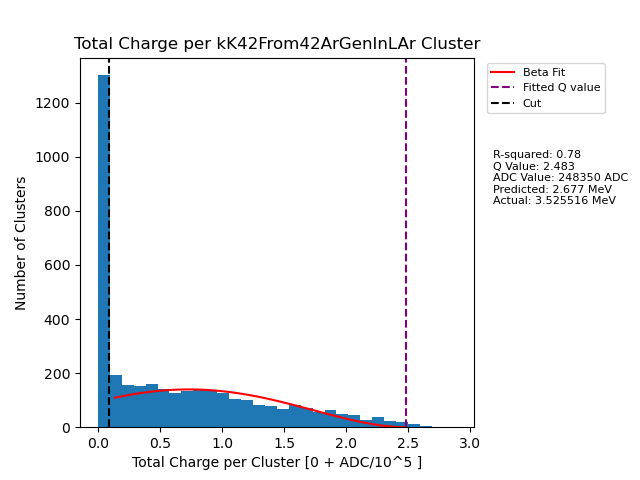
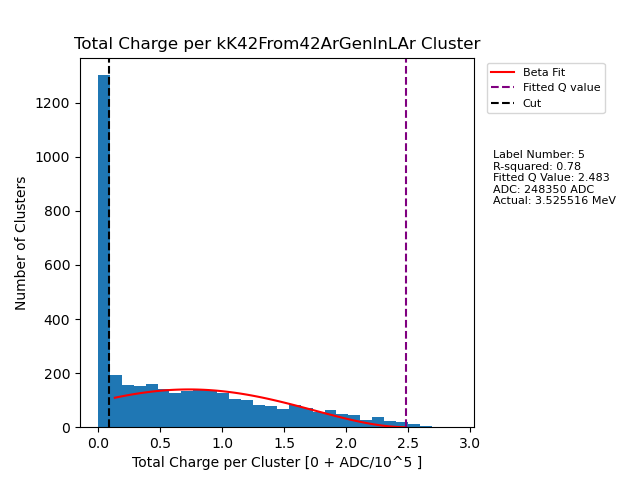
cleaned upp comments

Changed region(s): [[0.75, 0.3125, 0.9688, 0.4062]]

diff --git a/app/cluster_analyse.py b/app/cluster_analyse.py
@@ -134,7 +134,6 @@ labels = {
     21: "kRn222ChainGenInPDS",
     22: "kNeutronGenInRock"
     }
-exlude_expo = []#[-1,0,1,22,2] #exlude these bacgkrounds when fitting the exponential function to the histograms
 
 '''
 new dic that matches background with its respective maximum decay energy 
@@ -175,6 +174,9 @@ if uniform:
     exlude = [19,11,13,16,17,18,10,15,14] 
 else:
     exlude = [19,13,14,2] #backgrounds to exlude #exluding Ar39 because Fermi fits badly with outlier
+
+exlude_expo = []#[-1,0,1,22,2] #exlude these bacgkrounds when fitting the exponential function to the histograms
+
      
 charge_lists = {key: [] for key in labels} #lists of sum of charges in each cluster, for histograms
 charge_lists_cut = {key: [] for key in labels} #same as above but with a charge cut applied for the purpose of fitting the background
@@ -227,11 +229,10 @@ alpha_adc = []
 alpha_adc_error = []
 alpha_MeV = []
 
-parameter_list = [] #list of best fit parameters to plot to see relation between parameter and endpoint
 
 for label_num, charge_list in charge_lists.items():
     max_charge_num = 0   
-    #histogram
+    #histogram of each backgrouund
     fig1 = plt.figure()
     hist, bins, _ = plt.hist(charge_list, bins=60)  
     plt.title(f'Total Charge per {labels[label_num]} Cluster [ADC]')  
@@ -280,7 +281,7 @@ for label_num, charge_list in charge_lists.items():
   '''
   
     #fit sigmoid to hist data
-    # 
+ 
     if label_num not in exlude_expo:
         '''
         cut = np.std(charge_list)
@@ -312,7 +313,7 @@ for label_num, charge_list in charge_lists.items():
         '''
         #Fit Fermi Function
         alpha = .007297
-        m = 1 #KeV
+        m = 1 #KeV NOT SURE ABOUT THIS VALUE
         c = 1   #m/s
         e = np.sqrt(4*np.pi*alpha) #C
         h = 1 # Joules-s / rad
@@ -320,7 +321,7 @@ for label_num, charge_list in charge_lists.items():
         def S(Z):
             return np.sqrt(1-(alpha**2)*Z**2)
             
-        def rho(label):
+        def rho(): #change to variable if keeping constant
             return 3.4093e-15
         
         def E(T): #total energy
@@ -331,39 +332,35 @@ for label_num, charge_list in charge_lists.items():
         
         def eta(Z,T): #n
             return (Z*E(T)*np.power(e,2))/P(T)
-        def F(Z,T):
-            return 2*(1+S(Z))/((gamma(1+2*S(Z)))**2)*np.power(2*P(T)*rho(Z),2*S(Z)-2)*np.power(np.e,np.pi*eta(Z,T))*np.abs(gamma(S(Z)+eta(Z,T)*1j))**2 
         
-       # def F(Z,T): #fermi function
-        #    numerator = (2*np.pi*eta(Z,T))
-         #   denominator = (1-np.exp(-2*np.pi*eta(Z,T)))  
-          #  return numerator/denominator   
-            
+        def F(Z,T):
+            return 2*(1+S(Z))/((gamma(1+2*S(Z)))**2)*np.power(2*P(T)*rho(),2*S(Z)-2)*np.power(np.e,np.pi*eta(Z,T))*np.abs(gamma(S(Z)+eta(Z,T)*1j))**2 
+        
+        '''
+        #simplified fermi function
+        def F(Z,T): #fermi function
+            numerator = (2*np.pi*eta(Z,T))
+            denominator = (1-np.exp(-2*np.pi*eta(Z,T)))  
+            return numerator/denominator   
+            '''
         
         def N(T,C,Q,Z=background_max_energy[label_num][2]):
             return C*F(Z,T)*P(T)*E(T)*np.power((Q-T),2)
         
     if (label_num not in exlude_expo) and (len(background_max_energy[label_num]) > 2):
         scale = 100000
-        #if (len(charge_list)>10):
-         #   cut = .28 #cut out first 1st 1/25th of hist range
-        #else:
-          #  cut = .28
-        start = 0
-        cut = 0.09
+        start = 0 #shift
+        cut = 0.09 #charge cut for fit
 
         # to fit the expression for beta decay onto the ADC graph, I had to first modify the histogram because the expression does not scale
         # Now just find endpoint, and reverse the modification to find on ADC graph 
-        # i.e. Find endpoint of fit, subtract .25, then multiply by 100,000 to find ADC endpoint
-        cut_charge_list_fit = [x/scale for x in charge_list if x/scale + start > cut ] # charge cut to cut out spike at low energies
-        cut_charge_list_display = [x/scale + start for x in charge_list]
-        #charge_list_plt = [x/scale + .25 for x in charge_list] #charge list to plot, doesnt have spike cut but has scale
+        # i.e. Find endpoint of fit then multiply by scale to find ADC endpoint
+        cut_charge_list_fit = [x/scale + start for x in charge_list if x/scale + start > cut ] # charge cut to cut out spike at low energies
+        cut_charge_list_display = [x/scale + start for x in charge_list] #used to make histogram of all charges, cut is illustrated on graph with dotted line
         fig_fermi = plt.figure()
         hist_fit, bins, _ = plt.hist(cut_charge_list_fit,bins = 30)
         plt.clf()
         plt.hist(cut_charge_list_display,bins = 30)
-        #plt.clf()
-        #hist, bins, _ = plt.hist(cut_charge_list_fit, bins=60)  #plot the hist but fit fermi on the cut histogram
         plt.title(f'Total Charge per {labels[label_num]} Cluster')  
         plt.xlabel(f'Total Charge per Cluster [{start} + ADC/10^5 ]')  
         plt.ylabel('Number of Clusters') 
@@ -371,11 +368,10 @@ for label_num, charge_list in charge_lists.items():
        
         
      
+        #Parameters vary widely
+        #Initial parameter guessing 
         
         gueses = 1000
-        min_guess = 0
-        if label_num==2:
-            min_guess = 30
         initial_guesses_C = [random.randint(0, max(hist_fit)) for _ in range(gueses)]
         initial_guesses_Q = [random.uniform(0, 6) for _ in range(gueses)]
 
@@ -384,23 +380,23 @@ for label_num, charge_list in charge_lists.items():
         best_Q_param = 1
         fit_fails = 0
         fit_success = 0
-
+        best_chi = 0
+        
+        #Using r^2 value as a general method to find best parameters
         for i in range(gueses):
             try:
-                
                 params, pcov = curve_fit(N, x, hist_fit, p0=[initial_guesses_C[i],initial_guesses_Q[i]])
                 fit_success+=1
-                #print(f'r^2: {R_squared}. params: {params}')
                 perr = np.sqrt(np.diag(pcov))
                 y_pred = N(x, *params)
                 R_squared = r2_score(hist_fit, y_pred)
                 #Chi = chisquare(hist_fit, y_pred)
                 if R_squared > best_r2:
                     best_r2 = R_squared
-                    #chi2 = Chi
                     best_C_param = params[0]
                     best_Q_param = params[1]
                     best_perr = perr
+    
                     
             except:
                 if fit_fails>100:
@@ -410,6 +406,7 @@ for label_num, charge_list in charge_lists.items():
                        
         #find endpoint using fermi fit ^
         print(f'Fit sucess for {labels[label_num]}: {fit_success}, Fails: {fit_fails}')
+        
         x = (bins[:-1] + bins[1:]) / 2  # Get x values for the center of each bin
         x_curve = np.linspace(min(x), max(x)+ max(x)/6, 100)
 
@@ -455,10 +452,12 @@ for label_num, charge_list in charge_lists.items():
         #uncertainty = np.std(endpoints*scale)
         print(f'Adding endpoint {max_endpoint} to {labels[label_num]}')
         max_charge_fermi[label_num] = max_endpoint #record energy at minimum value of curve 
-    
-
         print(f'labelnum: {label_num} with {background_max_energy[label_num]}')
-        background_max_energy[label_num][3] = 0 # uncertainty 
+        if fit_success>=1:
+            background_max_energy[label_num][3] = best_perr[1] * scale # uncertainty as uncertainty in Q value
+        else:
+            background_max_energy[label_num][3] = 0
+            
         
         #DEBUGGING nan values returned from N at values below x=.25
         '''
@@ -467,25 +466,21 @@ for label_num, charge_list in charge_lists.items():
             print(f'N: {N(x,best_C_param,best_Q_param)}')
             print(f'Inside P(T) square root:  {np.power(E(x),2) - np.power(m,2)} ')
             '''
-        #manuelly plug in conversion to display on graph. NEED TO CHANGE IF BACKGROUNDS CHANGE
+        #manuelly plug in conversion to display on graph. beta slope obtained only after running script
+        #NEED TO CHANGE IF BACKGROUNDS CHANGE
         beta_slope = 9.61268413759387e-06
         def conversion(ADC):
             return beta_slope*ADC+.29
         
         x = (bins[:-1] + bins[1:]) / 2  # Get x values for the center of each bin
         x_curve = np.linspace(min(x), best_Q_param, 100)
-        #y_pred = N(x, background_max_energy[label_num][2], params[1], background_max_energy[label_num][1])   #Fit with Z and Q constant
 
-        #plt.plot(x_curve, N(x_curve,background_max_energy[label_num][2], params[1],background_max_energy[label_num][1]), 'r-', label='Beta Fit')
         plt.plot(x_curve, N(x_curve,best_C_param,best_Q_param), 'r-', label='Beta Fit') #fit with Q and Z not constants, varied for fit
         
-        #plt.axvline(x=np.mean(endpoints), linestyle='--', color='black', label='Mean Endpoint')
         plt.axvline(x=best_Q_param, linestyle='--', color='purple', label='Fitted Q value')
         plt.axvline(x=cut, linestyle='--', color='black', label='Cut')
 
-        plt.text(1.05, 0.75, f'R-squared: {best_r2:.2f}\nQ Value: {best_Q_param:.3f}\nADC Value: {max_endpoint:.0f} ADC\nPredicted: {conversion(max_endpoint):.3f} MeV \nActual: {background_max_energy[label_num][1]} MeV ', transform=plt.gca().transAxes, fontsize=8, verticalalignment='top')
-        #plt.text(1.05, 0.71, f'Q Value: {best_Q_param:.3f}', transform=plt.gca().transAxes, fontsize=8, verticalalignment='top')
-        #plt.text(1.05, 0.67, f'Predicted: {conversion(max_endpoint):.3f} MeV \nActual: {background_max_energy[label_num][1]} MeV \nADC Value: {max_endpoint:.0f} ADC ', transform=plt.gca().transAxes, fontsize=8, verticalalignment='top')
+        plt.text(1.05, 0.75, f'Label Number: {label_num}\nR-squared: {best_r2:.2f}\nFitted Q Value: {best_Q_param:.3f}\nADC: {max_endpoint:.0f} ADC\nActual: {background_max_energy[label_num][1]} MeV ', transform=plt.gca().transAxes, fontsize=8, verticalalignment='top')
         plt.legend(loc='upper left', bbox_to_anchor=(1.02, 1),fontsize=8)
         plt.subplots_adjust(right=0.74)
         print(f'Params for {labels[label_num]}: {best_C_param},{best_Q_param}')
@@ -592,8 +587,9 @@ else:
     fig_conv.savefig('plots/ADC_KeV_fits/beta_fit_FERMI.png')
 plt.clf()
 plt.close() 
+
+'''
 #linear fit
-#error bars on points, use sigma of histogram
 slope_B, intercept_B, r_value_B, p_value_B, std_err_B = linregress(beta_adc, beta_MeV)
 slope_a, intercept_a, r_value_a, p_value_a, std_err_a = linregress(alpha_adc, alpha_MeV)
 fig0 = plt.figure()
@@ -623,4 +619,5 @@ else:
 
 plt.clf()
 plt.close() 
+'''
 #copy plot to local: scp hakins@lxplus.cern.ch:/afs/cern.ch/user/h/hakins/tpgtools/scripts/plots/histogram.png C:\Users\harry\Documents\Test_Plots
